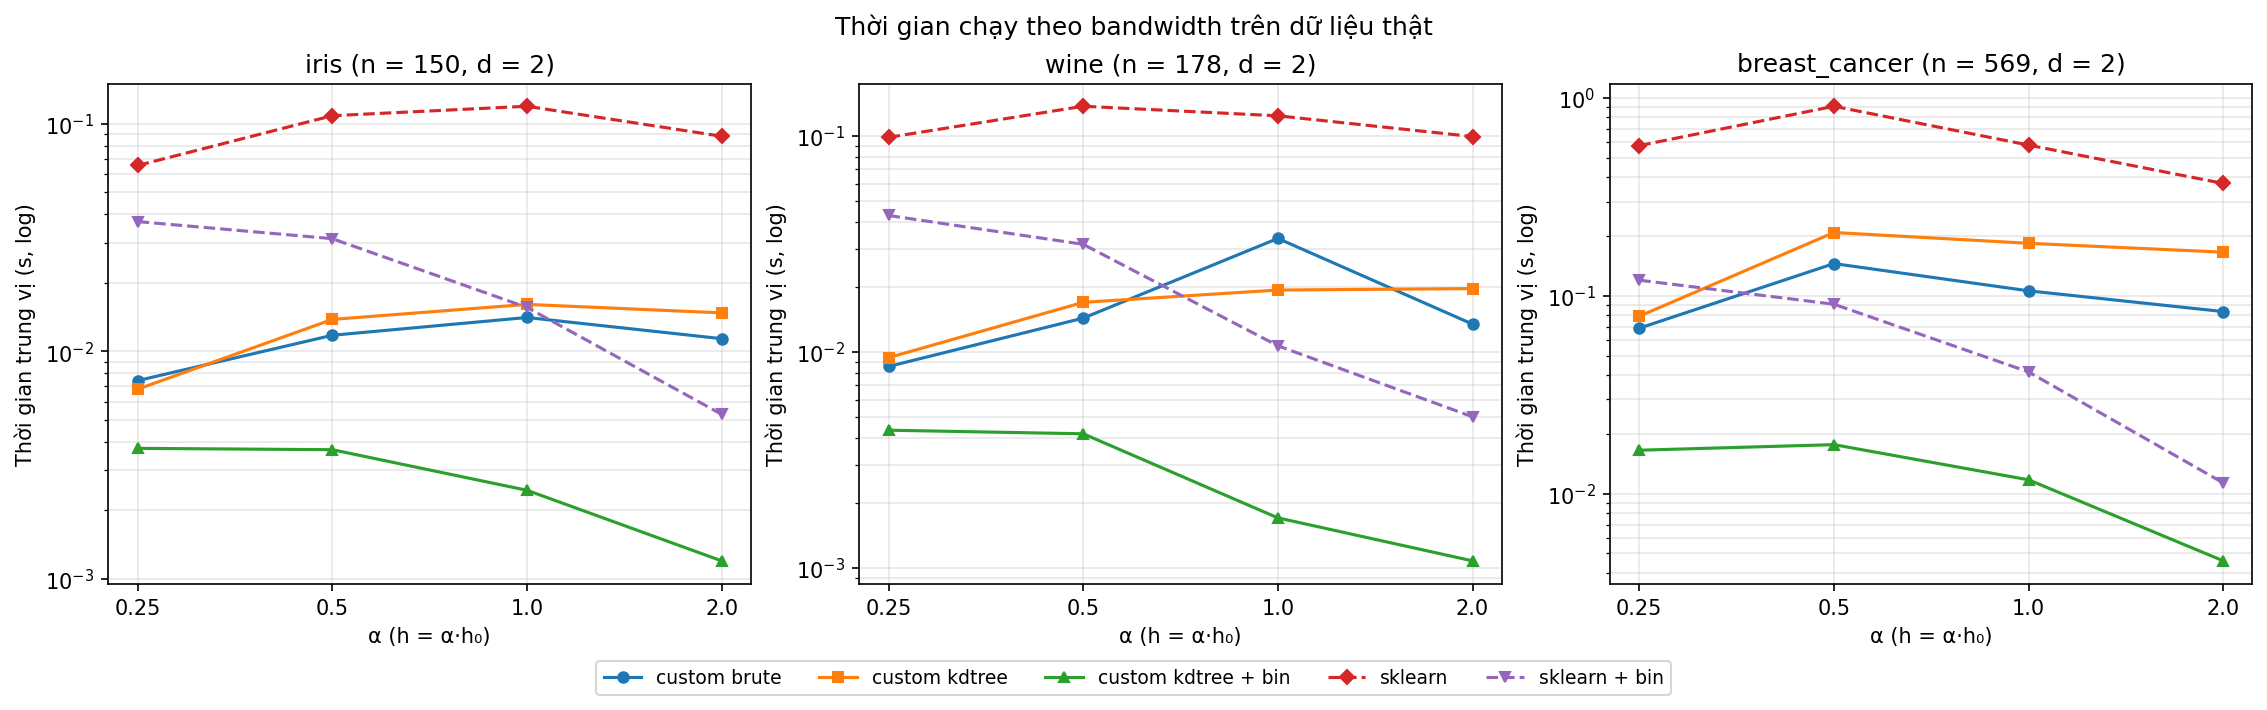
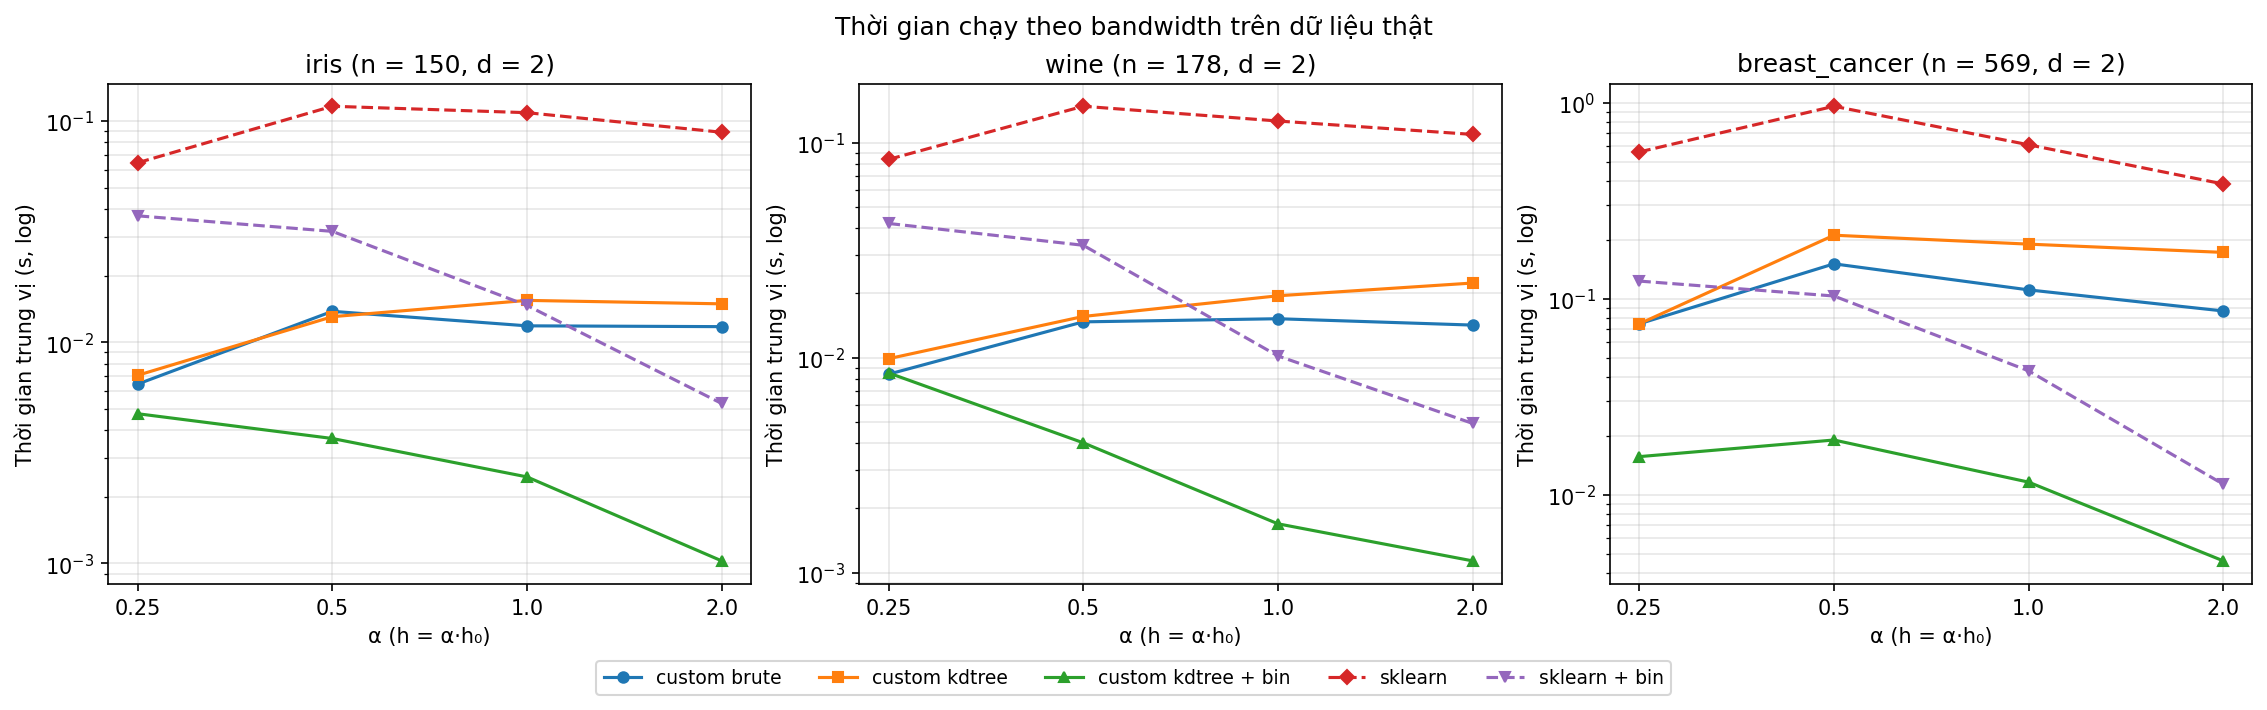
Update

diff --git a/experiments/e3_runtime.py b/experiments/e3_runtime.py
@@ -3,7 +3,6 @@ import json
 import platform
 import sys
 import time
-import tracemalloc
 from pathlib import Path
 
 import matplotlib
@@ -57,19 +56,15 @@ def measure(method, X, h, repeats):
     try:
         make_model(method, h).fit(X)
     except ValueError as exc:
-        return {"time_median_s": np.nan, "time_min_s": np.nan, "time_max_s": np.nan, "peak_memory_mb": np.nan,
+        return {"time_median_s": np.nan, "time_min_s": np.nan, "time_max_s": np.nan,
                 "n_seeds": n_seeds(method, X, h), "n_clusters": np.nan, "n_iter": np.nan, "error": str(exc)}
     times, model = [], None
     for _ in range(repeats):
         start = time.perf_counter()
         model = make_model(method, h).fit(X)
         times.append(time.perf_counter() - start)
-    tracemalloc.start()
-    make_model(method, h).fit(X)
-    peak = tracemalloc.get_traced_memory()[1]
-    tracemalloc.stop()
     return {"time_median_s": float(np.median(times)), "time_min_s": float(np.min(times)),
-            "time_max_s": float(np.max(times)), "peak_memory_mb": peak / 2**20,
+            "time_max_s": float(np.max(times)),
             "n_seeds": n_seeds(method, X, h), "n_clusters": len(model.cluster_centers_),
             "n_iter": int(model.n_iter_), "error": ""}
 
@@ -130,7 +125,7 @@ def plot_vs_h(summary, path):
 
 
 def main():
-    parser = argparse.ArgumentParser(description="E3: thời gian chạy và bộ nhớ trên dữ liệu thật.")
+    parser = argparse.ArgumentParser(description="E3: thời gian thực thi trên dữ liệu thật.")
     parser.add_argument("--repeats", type=int, default=REPEATS, help=f"số lần đo mỗi cấu hình (mặc định {REPEATS})")
     args = parser.parse_args()
     if args.repeats <= 0:
@@ -161,21 +156,19 @@ def main():
 
     plot_vs_n(summary, "time_median_s", "Thời gian trung vị (s, log)",
               f"Thời gian chạy theo n ({N_SWEEP_DATASET}, h cố định)", OUT / "e3_time_vs_n.png")
-    plot_vs_n(summary, "peak_memory_mb", "Bộ nhớ đỉnh (MB)",
-              f"Bộ nhớ đỉnh theo n ({N_SWEEP_DATASET}, h cố định)", OUT / "e3_memory_vs_n.png", log_y=False)
     plot_vs_h(summary, OUT / "e3_time_vs_h.png")
 
     env = (f"python {platform.python_version()}\nplatform {platform.platform()}\nprocessor {platform.processor()}\n"
            f"numpy {np.__version__}\nscipy {scipy.__version__}\nscikit-learn {sklearn.__version__}\n")
     (OUT / "env.txt").write_text(env, encoding="utf-8")
     metadata = {
-        "experiment": "E3 – thời gian chạy và bộ nhớ trên dữ liệu thật",
+        "experiment": "E3 – thời gian thực thi trên dữ liệu thật",
         "n_sweep": {"dataset": N_SWEEP_DATASET, "n_values": N_VALUES,
                     "sampling": "chuẩn hoá và PCA 2D trên toàn bộ dữ liệu rồi lấy mẫu con phân tầng random_state=0",
                     "h": "estimate_bandwidth trên toàn bộ dữ liệu 2D, giữ cố định"},
         "h_sweep": {"datasets": DATASETS, "alphas": ALPHAS, "h": "α·estimate_bandwidth(X, quantile=0.3)"},
         "methods": METHODS, "repeats": args.repeats,
-        "time": "time.perf_counter, trung vị các lần đo", "memory": "tracemalloc, đo ở 1 lần chạy riêng",
+        "time": "time.perf_counter, trung vị các lần đo",
         "threadpool_limit": 1, "sklearn_n_jobs": 1,
         "versions": {"python": platform.python_version(), "numpy": np.__version__, "pandas": pd.__version__,
                      "scipy": scipy.__version__, "scikit_learn": sklearn.__version__},

diff --git a/report/THUC_NGHIEM_E3.md b/report/THUC_NGHIEM_E3.md
@@ -1,8 +1,8 @@
-# Thực nghiệm E3 — Thời gian chạy và bộ nhớ trên dữ liệu thật (2 chiều)
+# Thực nghiệm E3 — Thời gian thực thi trên dữ liệu thật (2 chiều)
 
 ## 1. Mục tiêu
 
-Trả lời RQ3: KD-Tree và bin seeding giảm chi phí tính toán bao nhiêu, trong điều kiện nào, và có làm đổi kết quả không? So sánh với `sklearn.cluster.MeanShift`.
+Trả lời RQ3: KD-Tree và bin seeding giảm thời gian thực thi bao nhiêu, trong điều kiện nào, và có làm đổi kết quả không? So sánh với `sklearn.cluster.MeanShift`.
 
 ## 2. Thiết lập
 
@@ -10,10 +10,7 @@ Trả lời RQ3: KD-Tree và bin seeding giảm chi phí tính toán bao nhiêu,
 - **Năm bản cài đặt:** `custom brute`, `custom kdtree`, `custom kdtree + bin` (bin seeding), `sklearn`, `sklearn + bin`. Tất cả dùng nhân phẳng; sklearn chạy với `n_jobs=1`, mọi thư viện giới hạn 1 luồng.
 - **Theo n:** dùng Breast Cancer 2D, lấy mẫu con phân tầng n ∈ {100, 200, 300, 400, 500, 569}. h giữ cố định bằng `estimate_bandwidth` của toàn bộ dữ liệu.
 - **Theo h:** chạy cả 3 bộ với đủ dữ liệu, h = α·h₀, α ∈ {0.25, 0.5, 1, 2}.
-- **Đo:**
-  - Thời gian lấy trung vị 3 lần chạy.
-  - Bộ nhớ đỉnh đo bằng `tracemalloc` ở 1 lần chạy riêng.
-  - Ghi thêm số seed, số cụm và số vòng lặp.
+- **Đo:** thời gian thực thi của `fit`, lấy trung vị 3 lần chạy (`time.perf_counter`). Ghi thêm số seed, số cụm và số vòng lặp để biết việc tăng tốc có làm đổi kết quả không.
 - **Máy:** Apple M1, Python 3.14.5, NumPy 2.4.6, SciPy 1.17.1, scikit-learn 1.8.0 (`results/e3/env.txt`).
 
 Chạy lại: `python3 experiments/e3_runtime.py` (khoảng 1 phút).
@@ -22,55 +19,51 @@ Chạy lại: `python3 experiments/e3_runtime.py` (khoảng 1 phút).
 
 | n | custom brute | custom kdtree | custom kdtree + bin | sklearn | sklearn + bin |
 | --- | --- | --- | --- | --- | --- |
-| 100 | 0,0067 s | 0,0083 s | 0,0021 s | 0,0611 s | 0,0168 s |
-| 300 | 0,0386 s | 0,0581 s | 0,0060 s | 0,2838 s | 0,0319 s |
-| 569 | 0,1060 s | 0,2221 s | 0,0120 s | 0,5972 s | 0,0432 s |
+| 100 | 0,0065 s | 0,0074 s | 0,0024 s | 0,0574 s | 0,0161 s |
+| 300 | 0,0360 s | 0,0560 s | 0,0067 s | 0,2855 s | 0,0309 s |
+| 569 | 0,1535 s | 0,1943 s | 0,0118 s | 0,6151 s | 0,0446 s |
 
-Hình: `results/e3/e3_time_vs_n.png`, `results/e3/e3_memory_vs_n.png`.
+Hình: `results/e3/e3_time_vs_n.png`.
 
-- **KD-Tree chậm hơn brute** ở mọi n, chỉ đạt 0,48–0,80 lần tốc độ của brute. Ở 2D, nguyên nhân không phải số chiều mà là **n quá nhỏ**:
+- **KD-Tree chậm hơn brute** ở mọi n, chỉ đạt 0,54–0,88 lần tốc độ của brute. Ở 2D, nguyên nhân không phải số chiều mà là **n quá nhỏ**:
   - Bản brute tính khoảng cách cho cả lô seed bằng một phép nhân ma trận (BLAS). Với n ≤ 569, ma trận khoảng cách rất nhỏ nên phép tính này rất nhanh.
   - Bản KD-Tree gọi `cKDTree.query_ball_point`, trả về một danh sách Python cho từng seed, rồi phải chuyển đổi và sắp xếp từng danh sách. Chi phí này lớn hơn phần tính toán mà cây tiết kiệm được.
   - Lợi thế của KD-Tree chỉ xuất hiện khi n đủ lớn để chi phí O(n) của mỗi truy vấn brute trở nên đáng kể, vùng này nằm ngoài phạm vi 3 bộ dữ liệu.
-- **Bin seeding** giảm số seed từ 569 xuống 27 (−95%) và nhanh hơn brute **8,8 lần** ở n = 569. **Kết quả không đổi:** vẫn 3 cụm, số vòng lặp gần như nhau (24 so với 23 khi không dùng bin).
+- **Bin seeding** giảm số seed từ 569 xuống 27 (−95%) và nhanh hơn brute **13 lần** ở n = 569. **Kết quả không đổi:** vẫn 3 cụm, số vòng lặp gần như nhau (24 so với 23 khi không dùng bin).
 - **So với sklearn:** bản tự cài nhanh hơn rõ.
-  - Ở n = 569: `custom brute` mất 0,106 s so với 0,597 s của sklearn (nhanh hơn 5,6 lần); `custom kdtree + bin` mất 0,012 s so với 0,043 s của `sklearn + bin`.
+  - Ở n = 569: `custom brute` mất 0,154 s so với 0,615 s của sklearn (nhanh hơn 4 lần); `custom kdtree + bin` mất 0,012 s so với 0,045 s của `sklearn + bin`.
   - Hai cài đặt cho cùng nhãn (E1). Khác biệt đến từ việc bản tự cài dịch chuyển mọi seed theo lô bằng NumPy, còn sklearn xử lý tuần tự từng seed.
-- **Bộ nhớ:**
-  - `custom brute` và `custom kdtree` tăng nhanh theo n (7,7 MB và 9,4 MB ở n = 569), vì giữ khoảng cách và chỉ số láng giềng của cả lô seed.
-  - sklearn dùng dưới 0,8 MB.
-  - Bin seeding giảm bộ nhớ của bản tự cài xuống 0,28 MB.
 
 ## 4. Kết quả theo h
 
 | Bộ | α | custom brute | custom kdtree | kdtree + bin | sklearn | số seed (bin) | số cụm (không bin / bin) |
 | --- | --- | --- | --- | --- | --- | --- | --- |
-| Iris | 0,5 | 0,0117 s | 0,0138 s | 0,0037 s | 0,1082 s | 35 | 6 / 6 |
-| Iris | 1 | 0,0141 s | 0,0161 s | 0,0024 s | 0,1191 s | 17 | 2 / 2 |
-| Wine | 1 | 0,0335 s | 0,0193 s | 0,0017 s | 0,1238 s | 13 | 3 / 3 |
-| Breast Cancer | 0,25 | 0,0688 s | 0,0790 s | 0,0166 s | 0,5752 s | 160 | 64 / 68 |
-| Breast Cancer | 0,5 | 0,1458 s | 0,2093 s | 0,0177 s | 0,9094 s | 68 | 19 / 17 |
-| Breast Cancer | 2 | 0,0834 s | 0,1665 s | 0,0046 s | 0,3704 s | 12 | 1 / 1 |
+| Iris | 0,5 | 0,0138 s | 0,0130 s | 0,0037 s | 0,1166 s | 35 | 6 / 6 |
+| Iris | 1 | 0,0119 s | 0,0155 s | 0,0025 s | 0,1091 s | 17 | 2 / 2 |
+| Wine | 1 | 0,0152 s | 0,0194 s | 0,0017 s | 0,1261 s | 13 | 3 / 3 |
+| Breast Cancer | 0,25 | 0,0744 s | 0,0743 s | 0,0156 s | 0,5603 s | 160 | 64 / 68 |
+| Breast Cancer | 0,5 | 0,1505 s | 0,2106 s | 0,0190 s | 0,9587 s | 68 | 19 / 17 |
+| Breast Cancer | 2 | 0,0865 s | 0,1721 s | 0,0046 s | 0,3845 s | 12 | 1 / 1 |
 
 Hình: `results/e3/e3_time_vs_h.png`. Bảng đầy đủ: `results/e3/e3_summary.csv`.
 
 - **KD-Tree so với brute:**
-  - Trong 12 cấu hình theo h, KD-Tree chỉ nhanh hơn brute 2 lần: Iris α = 0,25 (×1,09) và Wine α = 1 (×1,73). Các trường hợp còn lại đạt 0,50–0,91 lần tốc độ brute.
-  - Riêng Wine α = 1, thời gian của brute cao bất thường so với các α lân cận, nên trường hợp này có thể do nhiễu đo.
+  - Trong 12 cấu hình, KD-Tree chỉ nhanh hơn brute một chút ở Iris α = 0,5 (×1,06) và ngang brute ở Breast Cancer α = 0,25 (×1,00). Các trường hợp còn lại đạt 0,50–0,94 lần tốc độ brute.
   - Khi h lớn, mỗi truy vấn trả về nhiều điểm nên KD-Tree càng mất lợi thế (Breast Cancer α = 2: ×0,50).
 - **Thời gian không đơn điệu theo h:** h trung bình cần nhiều vòng lặp nhất (Breast Cancer α = 0,5: 36 vòng), còn h lớn thì hội tụ nhanh (α = 2: 9 vòng).
-- **Bin seeding càng lợi khi h lớn:** lưới thô hơn nên ít seed hơn. Bin seeding nhanh hơn brute 2–20 lần (lớn nhất ở Wine α = 1: ×19,7; Breast Cancer α = 2: ×18,2).
-- **Kết quả với bin seeding ở 2D:** số cụm **giữ nguyên** ở mọi cấu hình có α ≥ 0,5, trừ Breast Cancer α = 0,5 (19 → 17 cụm). Ở α = 0,25, số cụm lệch nhẹ (Iris 29 → 27, Breast Cancer 64 → 68), vì khi h nhỏ thì nhiều mode nhỏ dễ bị bỏ sót hoặc tách thêm.
-- **sklearn** chậm nhất ở mọi cấu hình: chậm hơn `custom brute` 4–12 lần.
+- **Bin seeding càng lợi khi h lớn:**
+  - Lưới thô hơn nên ít seed hơn. Khi h nhỏ, bin seeding gần như không có lợi (Wine α = 0,25: 83/178 seed, ×0,99). Khi h lớn, nó nhanh hơn brute tới **18,9 lần** (Breast Cancer α = 2).
+  - **Kết quả ở 2D:** số cụm **giữ nguyên** ở mọi cấu hình có α ≥ 0,5, trừ Breast Cancer α = 0,5 (19 → 17 cụm). Ở α = 0,25, số cụm lệch nhẹ (Iris 29 → 27, Breast Cancer 64 → 68), vì khi h nhỏ thì nhiều mode nhỏ dễ bị bỏ sót hoặc tách thêm.
+- **sklearn** chậm nhất ở mọi cấu hình: chậm hơn `custom brute` 4–10 lần.
 
 ## 5. Kết luận RQ3
 
 - Trên dữ liệu thật 2D với n ≤ 569, **KD-Tree không giúp tăng tốc** so với brute đã vector hoá: chậm hơn tới khoảng 50%. Lý do là n nhỏ và chi phí xử lý kết quả truy vấn theo từng seed, chứ không phải số chiều.
-- **Bin seeding** là cách tăng tốc hiệu quả nhất (nhanh hơn brute tới gần 20 lần, bộ nhớ giảm khoảng 25 lần). Ở 2D, nó **hầu như không đổi kết quả** khi h ≥ 0,5·h₀; sai khác chỉ đáng kể khi h nhỏ.
-- Bản tự cài nhanh hơn sklearn 4–12 lần nhờ xử lý theo lô, đổi lại tốn bộ nhớ nhiều hơn.
+- **Bin seeding** là cách tăng tốc hiệu quả nhất (nhanh hơn brute tới khoảng 19 lần khi h lớn). Ở 2D, nó **hầu như không đổi kết quả** khi h ≥ 0,5·h₀; sai khác chỉ đáng kể khi h nhỏ, và lúc đó cũng gần như không tăng tốc.
+- Bản tự cài nhanh hơn sklearn 4–10 lần nhờ dịch chuyển các seed theo lô.
 
 ## 6. Hạn chế
 
 - n tối đa chỉ 569, nên chưa quan sát được vùng n lớn nơi KD-Tree có thể vượt brute. Mọi thời gian đều dưới 1 s nên dễ bị ảnh hưởng bởi tải của máy.
 - Phép đo theo n chỉ dùng một bộ (Breast Cancer 2D).
-- `tracemalloc` chỉ đo bộ nhớ do Python/NumPy cấp phát, không đo phần bộ nhớ riêng bên trong thư viện C của `cKDTree`.
+- Chỉ đo thời gian thực thi, không đo bộ nhớ.

diff --git a/README.md b/README.md
@@ -17,7 +17,7 @@ Tự cài thuật toán Mean-Shift theo hướng đối tượng (chỉ dùng Nu
 │   ├── common.py              #   Đọc dữ liệu thật, chuẩn hoá, PCA 2D, mẫu con
 │   ├── e1_compare_sklearn.py  #   E1 – đối chiếu với sklearn
 │   ├── e2_compare_algorithms.py  # E2 – so với K-Means, DBSCAN, GMM
-│   ├── e3_runtime.py          #   E3 – thời gian chạy và bộ nhớ
+│   ├── e3_runtime.py          #   E3 – thời gian thực thi
 │   └── fig_*.py               #   Vẽ hình minh hoạ
 ├── data/                      # CSV của 3 bộ dữ liệu: bản gốc và bản 2D (*_pca2.csv), xuất bằng export_datasets.py
 ├── results/                   # Kết quả E1–E3 (hình, bảng tổng hợp, metadata)
@@ -32,7 +32,7 @@ python3 -m pytest                             # unit test
 
 python3 experiments/e1_compare_sklearn.py     # E1 – đối chiếu sklearn (--seeds 1 để chạy thử)
 python3 experiments/e2_compare_algorithms.py  # E2 – so với K-Means, DBSCAN, GMM
-python3 experiments/e3_runtime.py             # E3 – thời gian chạy và bộ nhớ
+python3 experiments/e3_runtime.py             # E3 – thời gian thực thi
 for f in experiments/fig_*.py; do python3 "$f"; done   # hình trong report/figures
 ```
 
